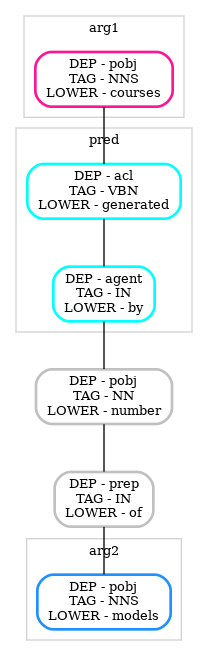
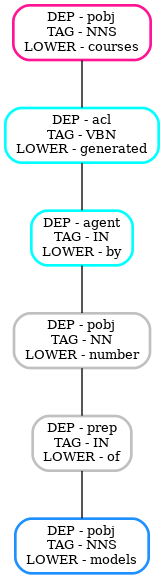
Determine proper ordering. Add legend

Changed region(s): [[0.0, 0.0, 0.9756, 0.9948]]

diff --git a/role_pattern_nlp/role_pattern_vis.py b/role_pattern_nlp/role_pattern_vis.py
@@ -4,6 +4,7 @@ Show the pattern as a tree plot with node attributes and role labels
 
 import pydot
 import visualise_spacy_pattern
+from role_pattern_nlp import util
 
 
 ROLE_COLOURS = [
@@ -15,12 +16,14 @@ ROLE_COLOURS = [
 
 NULL_COLOUR = 'grey'
 
-DEFAULT_SUBGRAPH_ATTRS = {
-    'color': 'lightgrey',
-    'shape': 'box',
-    # 'style': 'rounded',
+DEFAULT_STYLE_ATTRS = {
     'fontname': 'palatino',
     'fontsize': 10,
+}
+
+DEFAULT_SUBGRAPH_ATTRS = {
+    # 'color': 'grey',
+    # 'style': 'solid',
     'penwidth': 1,
 }
 
@@ -28,21 +31,23 @@ DEFAULT_NODE_ATTRS = {
     'color': 'cyan',
     'shape': 'box',
     'style': 'rounded',
-    'fontname': 'palatino',
-    'fontsize': 10,
-    'penwidth': 2
+    'penwidth': 2,
+}
+
+LEGEND_ATTRS = {
+    'ranksep': 0,
+    'penwidth': 0,
 }
 
 
 def get_label_colour_dict(labels):
     labels = [l for l in labels if l]  # Ignore null labels
-    labels = set(labels)
+    labels = util.unique_list(labels)
     label2colour = {label: ROLE_COLOURS[i] for i, label in enumerate(labels)}
     return label2colour
 
 
-def assign_role_colours(graph, token_labels):
-    label2colour = get_label_colour_dict(token_labels)
+def assign_role_colours(graph, token_labels, label2colour):
     nodes = graph.get_nodes()
     for node, label in zip(nodes, token_labels):
         if label:
@@ -51,6 +56,37 @@ def assign_role_colours(graph, token_labels):
         else:
             node.set_color(NULL_COLOUR)
     return graph
+
+
+# def add_legend(graph, label2colour):
+#     legend = pydot.Subgraph(graph_name='cluster_legend', **DEFAULT_STYLE_ATTRS, **LEGEND_ATTRS)
+#     legend.set_label('Legend')
+#     for label, colour in label2colour.items():
+#         label_node = pydot.Node(name=label, **LEGEND_NODE_ATTRS)
+#         colour_node = pydot.Node(name=colour, fontcolor='white', fontsize=0, **LEGEND_NODE_ATTRS)
+#         # colour_node.set_color(colour)
+#         edge = pydot.Edge(label_node, colour_node, style='invis', contraint='false')
+#         legend.add_node(label_node)
+#         legend.add_node(colour_node)
+#         legend.add_edge(edge)
+#     graph.add_subgraph(legend)
+#     return graph
+
+
+def create_legend(label2colour):
+    legend = pydot.Dot(graph_type='graph', **DEFAULT_STYLE_ATTRS)
+    legend_cluster = pydot.Subgraph(graph_name='cluster_legend', **DEFAULT_STYLE_ATTRS, **LEGEND_ATTRS)
+    legend_cluster.set_label('Role labels')
+    rows = []
+    for label, colour in label2colour.items():
+        row = '<td>{0}</td><td bgcolor="{1}" width="30"></td>'.format(label, colour)
+        row = '<tr>{}</tr>'.format(row)
+        rows.append(row)
+    table = '<<table border="0" cellborder="1" cellspacing="0" cellpadding="4">{}</table>>'.format('\n'.join(rows))
+    table = pydot.Node(name='legend_table', label=table, shape='none')
+    legend_cluster.add_node(table)
+    legend.add_subgraph(legend_cluster)
+    return legend
 
 
 def get_nodes_with_label(nodes, labels, with_label):
@@ -62,9 +98,9 @@ def get_nodes_with_label(nodes, labels, with_label):
 
 
 def add_role_label_clusters(graph, labels):
-    new_graph = pydot.Dot(graph_type='graph')
+    new_graph = pydot.Dot(graph_type='graph', **DEFAULT_STYLE_ATTRS)
     nodes = graph.get_nodes()
-    for label in set(labels):
+    for label in util.unique_list(labels):
         nodes_with_label = get_nodes_with_label(nodes, labels, label)
         if not label:
             for node in nodes_with_label:
@@ -81,10 +117,14 @@ def add_role_label_clusters(graph, labels):
     return new_graph
 
 
-def to_pydot(pattern):
+def to_pydot(pattern, with_legend=False):
     spacy_dep_pattern = pattern.spacy_dep_pattern
-    labels = pattern.token_labels_depth_order
+    labels_depth_order = pattern.token_labels_depth_order
+    labels_original_order = pattern.token_labels
     graph = visualise_spacy_pattern.to_pydot(spacy_dep_pattern)
-    graph = assign_role_colours(graph, labels)
-    graph = add_role_label_clusters(graph, labels)
+    label2colour = get_label_colour_dict(labels_original_order)
+    graph = assign_role_colours(graph, labels_depth_order, label2colour)
+    if with_legend:
+        legend = create_legend(label2colour)
+        return graph, legend
     return graph

diff --git a/test/test_role_pattern_nlp.py b/test/test_role_pattern_nlp.py
@@ -136,9 +136,13 @@ def test_visualise_pattern():
                 with open(filepath, 'w') as f:
                     json.dump(role_pattern.spacy_dep_pattern, f, indent=2)
                 matches = role_pattern.match(doc)
-                pydot = role_pattern.to_pydot()
+                pydot, legend = role_pattern.to_pydot(with_legend=True)
                 png = pydot.create_png()
                 filename = 'examples/pattern_vis/pattern_{0}_{1}.png'.format(test_i, features_i)
+                with open(filename, 'wb') as f:
+                    f.write(png)
+                png = legend.create_png()
+                filename = 'examples/pattern_vis/pattern_{0}_{1}_legend.png'.format(test_i, features_i)
                 with open(filename, 'wb') as f:
                     f.write(png)
 

diff --git a/role_pattern_nlp/util.py b/role_pattern_nlp/util.py
@@ -88,6 +88,14 @@ def flatten_list(list_):
     return list(itertools.chain(*list_))
 
 
+def unique_list(list_):
+    newlist = []
+    for item in list_:
+        if item not in newlist:
+            newlist.append(item)
+    return newlist
+
+
 def doc_from_match(match):
     token_lists = match.values()
     tokens = flatten_list(token_lists)

diff --git a/role_pattern_nlp/role_pattern.py b/role_pattern_nlp/role_pattern.py
@@ -17,5 +17,5 @@ class RolePattern():
         matches = match.find_matches(doc, pattern, 'pattern')
         return matches
 
-    def to_pydot(self):
-        return role_pattern_vis.to_pydot(self)
+    def to_pydot(self, **kwargs):
+        return role_pattern_vis.to_pydot(self, **kwargs)
